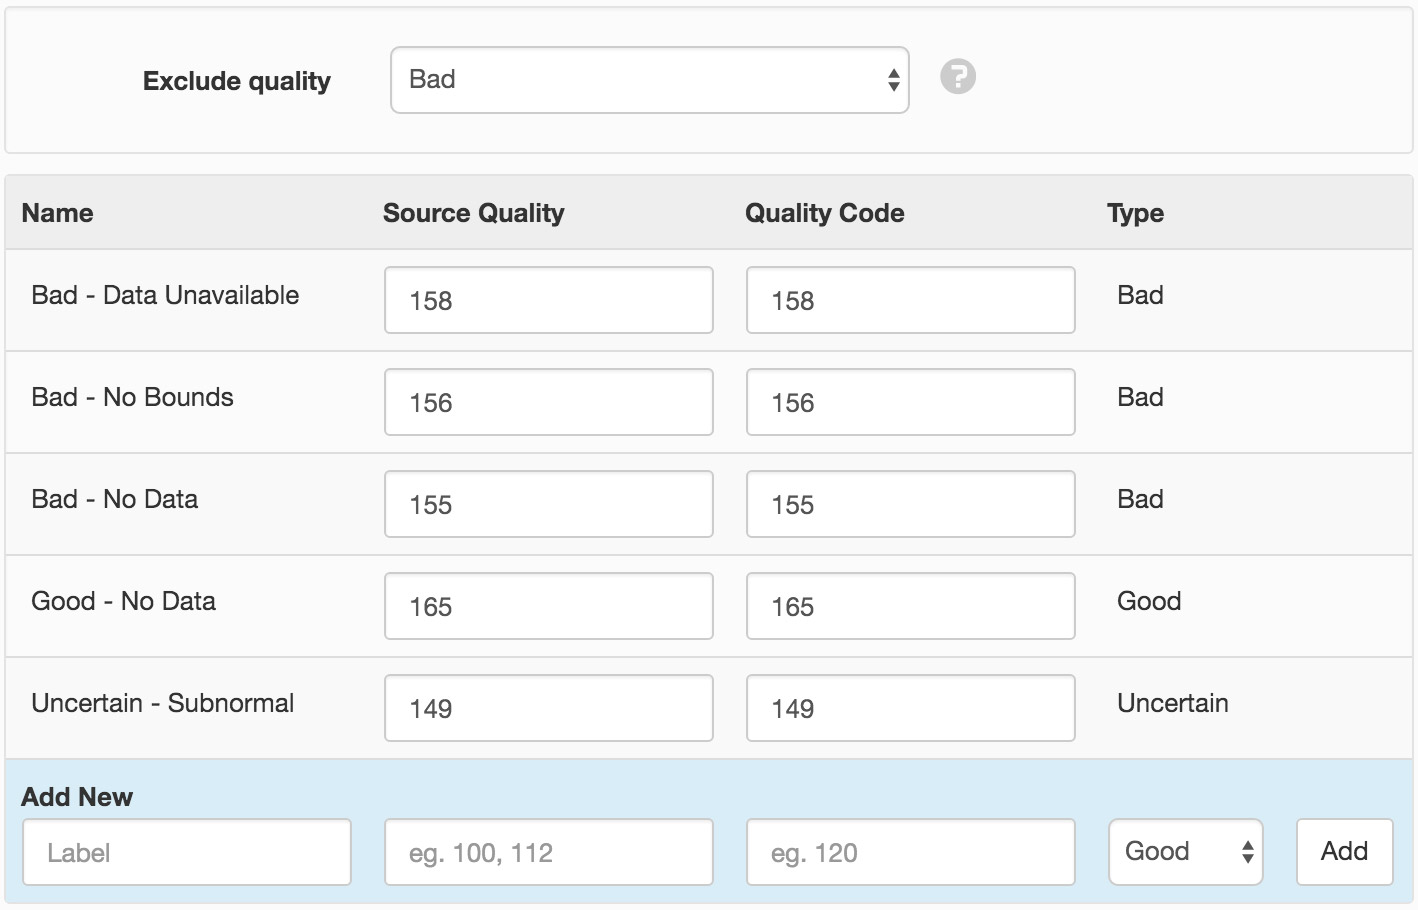
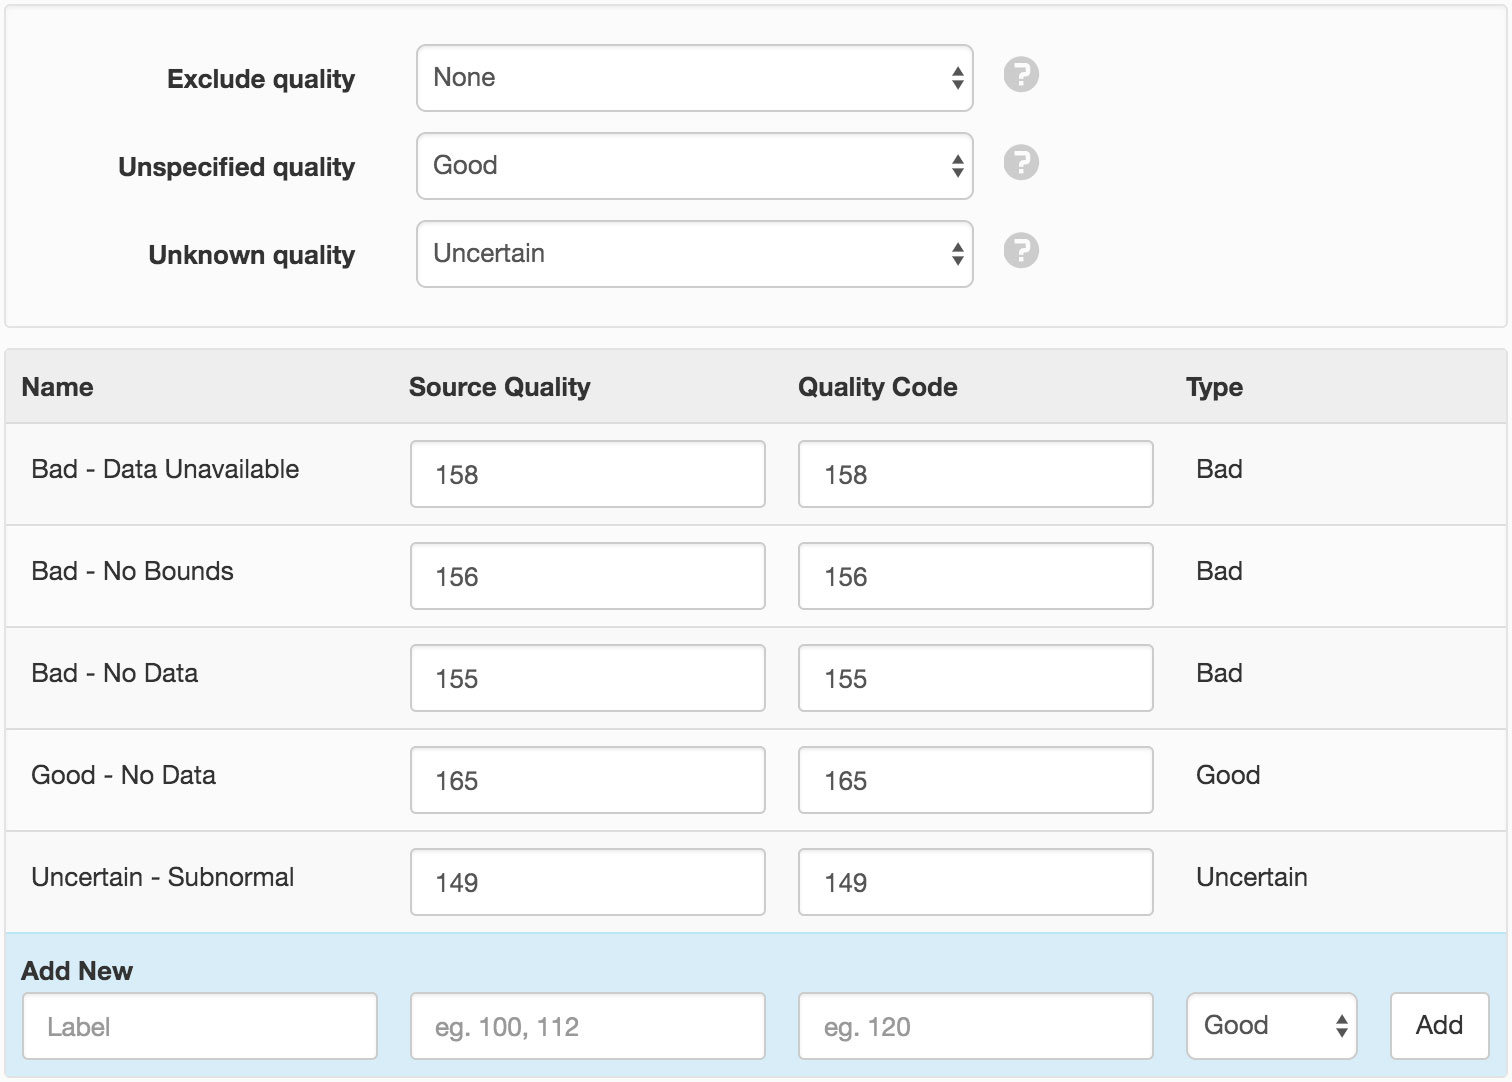
add unspecified & unknown quality type to account settings

diff --git a/source/topics/account_settings/general/index.rst b/source/topics/account_settings/general/index.rst
@@ -103,6 +103,12 @@ Exclude quality
     You can optionally choose to exclude *Bad* and *Uncertain* quality coded data from all historic data requests. 
     Excluded data points will not be visible on Charts, Tabular data and Historic API requests.
 
+Unspecified quality
+    Quality to assume when no quality code has been specified.
+
+Unknown quality
+    Quality to assume when the quality code specified does not exist.
+
 Source quality
 	Quality code(s) to match on acquired data. Separate multiple quality codes with a comma.
 
